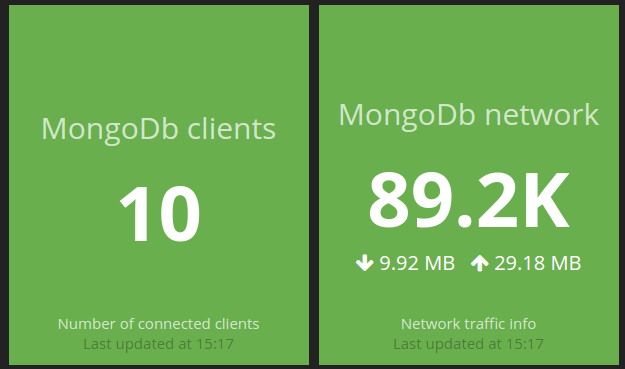
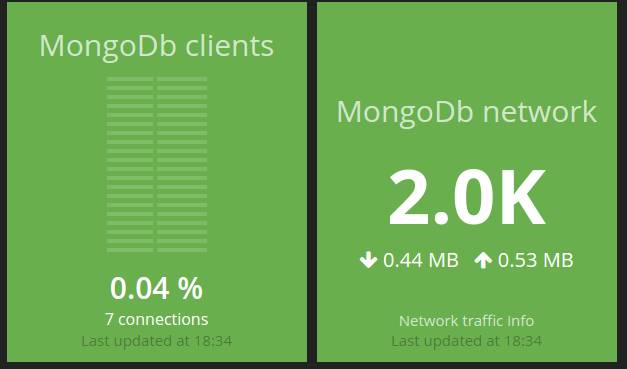
make mongo clients widget guage

diff --git a/widgets/mongo_clients/mongo_clients.scss b/widgets/mongo_clients/mongo_clients.scss
@@ -1,0 +1,61 @@
+// ----------------------------------------------------------------------------
+// Sass declarations
+// ----------------------------------------------------------------------------
+$background-color:  #6aaf4e;
+
+$title-color:       rgba(255, 255, 255, 0.7);
+$updated-at-color:  rgba(0, 0, 0, 0.3);
+
+$meter-background:  darken($background-color, 15%);
+
+// ----------------------------------------------------------------------------
+// Widget-meter styles
+// ----------------------------------------------------------------------------
+.widget-mongo-clients {
+
+  background-color: $background-color;
+
+    .title {
+        color: $title-color;
+    }
+
+    .value {
+        font-weight: 600;
+        font-size: 30px
+    }
+
+    .gauge {
+        width: 100px;
+        height: 180px;
+        display: block;
+        margin: 0 auto 10px;
+        position: relative;
+    }
+
+    .gauge-meter, .gauge::after {
+        display: block;
+        background: url("/assets/mongo-background.png") repeat-y center bottom;
+    }
+
+    .gauge::after {
+        content: "";
+        height: 100%;
+        opacity: 0.15;
+    }
+
+    .gauge-meter {
+        width: 100px;
+        position: absolute;
+        bottom: 0;
+        opacity: 0.6;
+    }
+
+    .updated-at {
+        color: $updated-at-color
+    }
+
+    .connections {
+        margin-bottom: 10px;
+        font-size: 16px;
+    }
+}

diff --git a/widgets/mongo_clients/mongo_clients.html b/widgets/mongo_clients/mongo_clients.html
@@ -1,0 +1,7 @@
+<h1 class="title" data-bind="title"></h1>
+
+<h2 class="value" data-bind="value | percentage total | append suffix"></h2>
+
+<p class="connections" data-bind="value | append connections"></p>
+
+<p class="updated-at" data-bind="updatedAtMessage"></p>

diff --git a/jobs/mongo.rb b/jobs/mongo.rb
@@ -18,8 +18,9 @@ SCHEDULER.every('5m', first_in: '1s') {
     info = mongo.command({ serverStatus: 1 }).to_a
 
     send_event('mongo_connected_clients', {
-        current: info[0]['connections']['current'],
-        moreinfo: "Number of connected clients"
+        max: info[0]['connections']['available'].to_i,
+        value: info[0]['connections']['current'].to_i,
+        moreinfo: "Connected clients"
     })
 
     # Convert network in/out in bytes to MB

diff --git a/README.md b/README.md
@@ -16,7 +16,7 @@ and run `bundle install`.
 
 ## Usage
 
-1. copy `mongo.scss` into the `/widgets/mongo` directory of your Dashing app.
+1. copy `mongo_clients.coffee`, `mongo_clients.html`, `mongo_clients.scss` into the `/widgets/mongo_clients` directory of your Dashing app.
 
 2. copy `mongo_network.coffee`, `mongo_network.html`, `mongo_network.scss` into the `/widgets/mongo_network` directory of your Dashing app.
 
@@ -38,7 +38,7 @@ Then include the widget in a dashboard, by adding the following snippet to your 
 * For the Mongo clients widget:
 ```html
     <li data-row="1" data-col="1" data-sizex="1" data-sizey="1">
-        <div data-id="mongo_connected_clients" data-view="Number" data-title="MongoDb clients"></div>
+        <div data-id="mongo_connected_clients" data-view="MongoClients" data-title="MongoDb clients"></div>
     </li>
 ```
 
